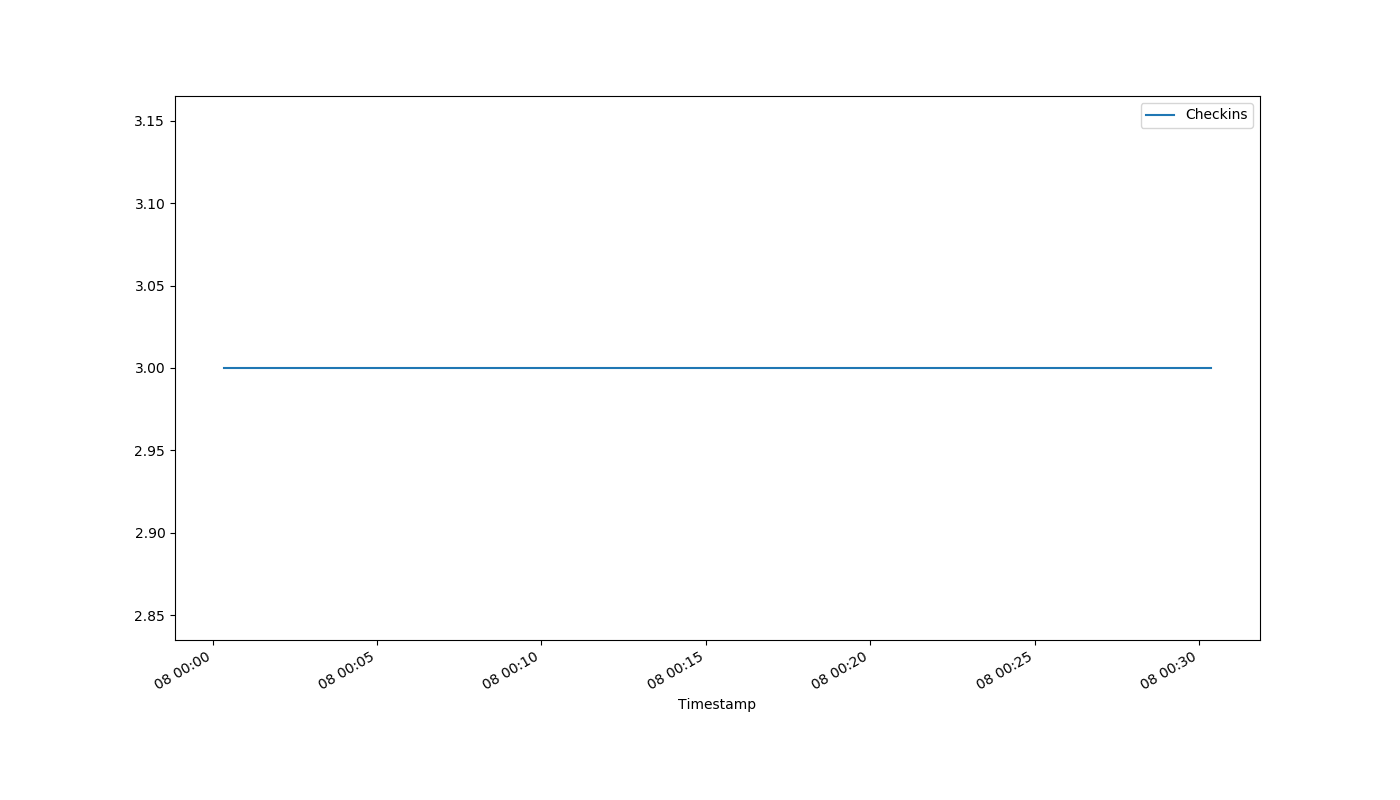
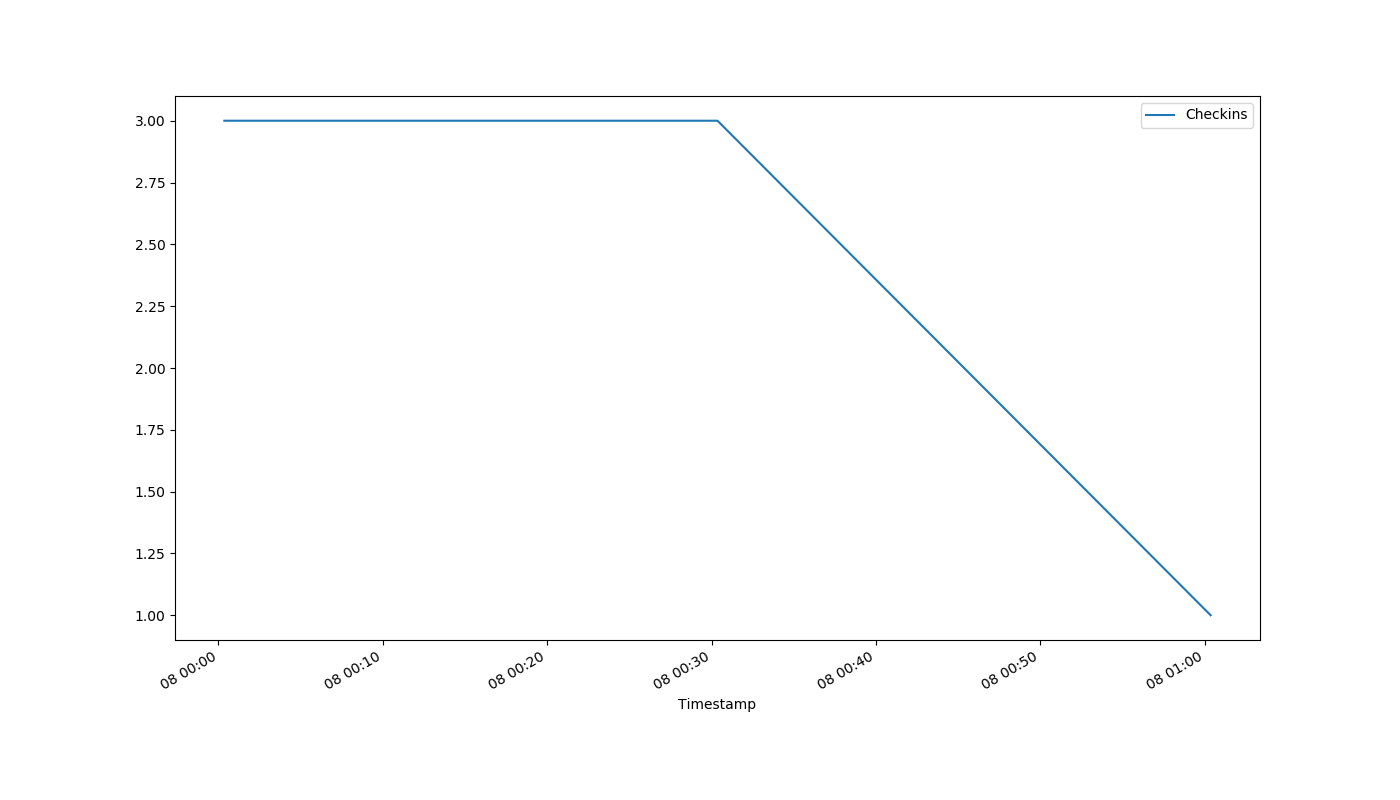
auto-Aug-08-01:01:52

diff --git a/index.html b/index.html
@@ -1,1 +1,1 @@
-<!DOCTYPE html><html><head><meta http-equiv="refresh" content="30"><link rel='stylesheet' href='holmcurrent.css'></head><body><p id='count'>3</p><div id='graph-wrap'><img id='graph' src='holmgraph-Aug-08.png'></div><p id='updated'>Last updated 00:31:14 / 00:30:21</p></body></html>
+<!DOCTYPE html><html><head><meta http-equiv="refresh" content="30"><link rel='stylesheet' href='holmcurrent.css'></head><body><p id='count'>1</p><div id='graph-wrap'><img id='graph' src='holmgraph-Aug-08.png'></div><p id='updated'>Last updated 01:01:15 / 01:00:21</p></body></html>
